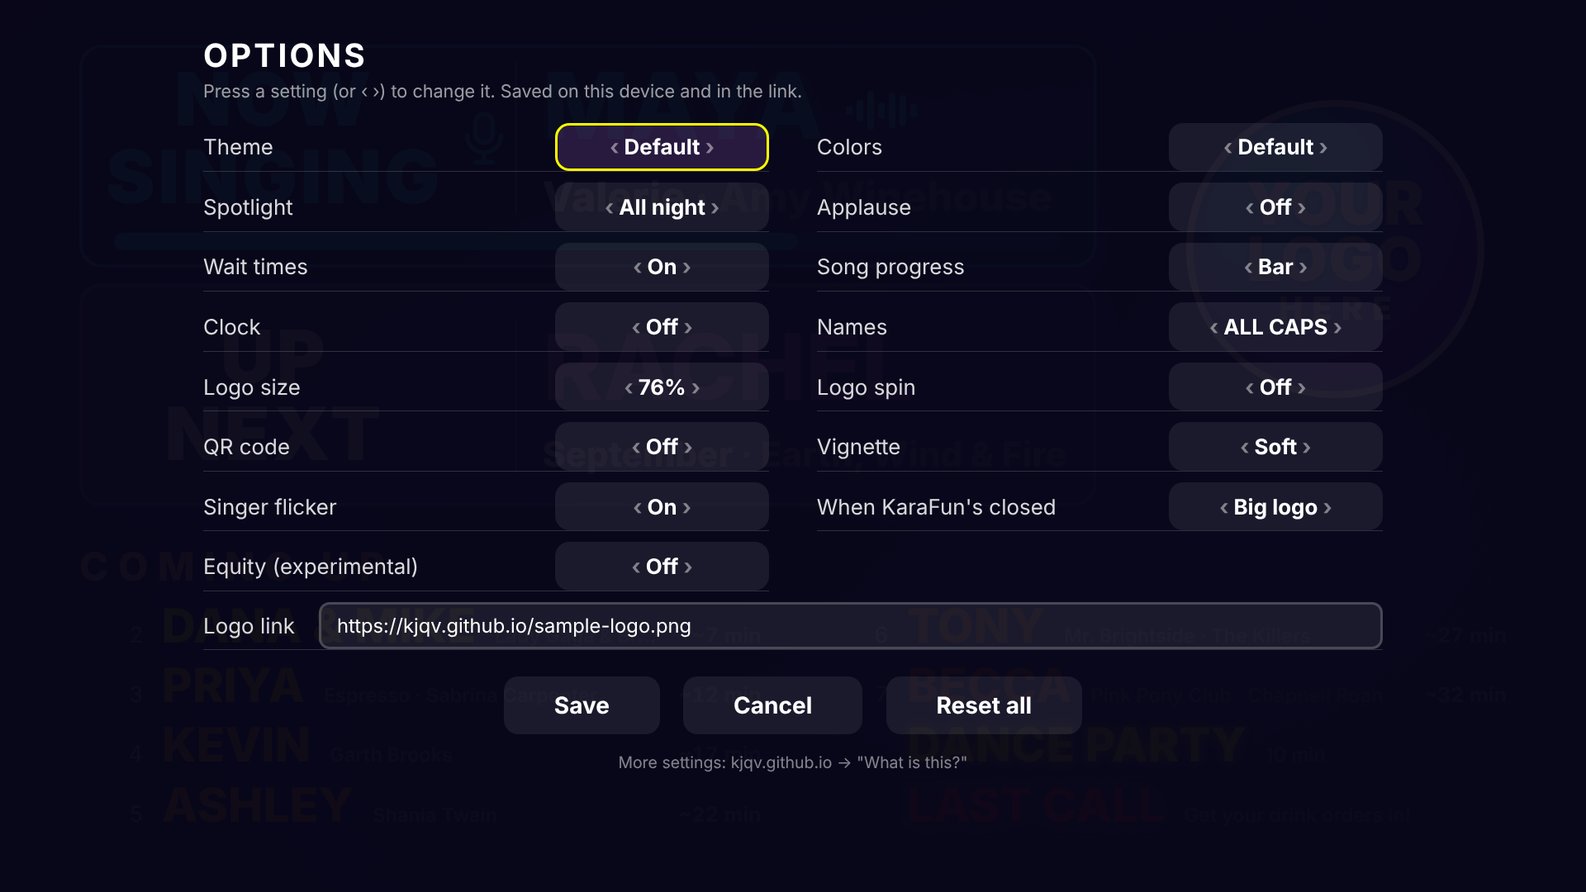
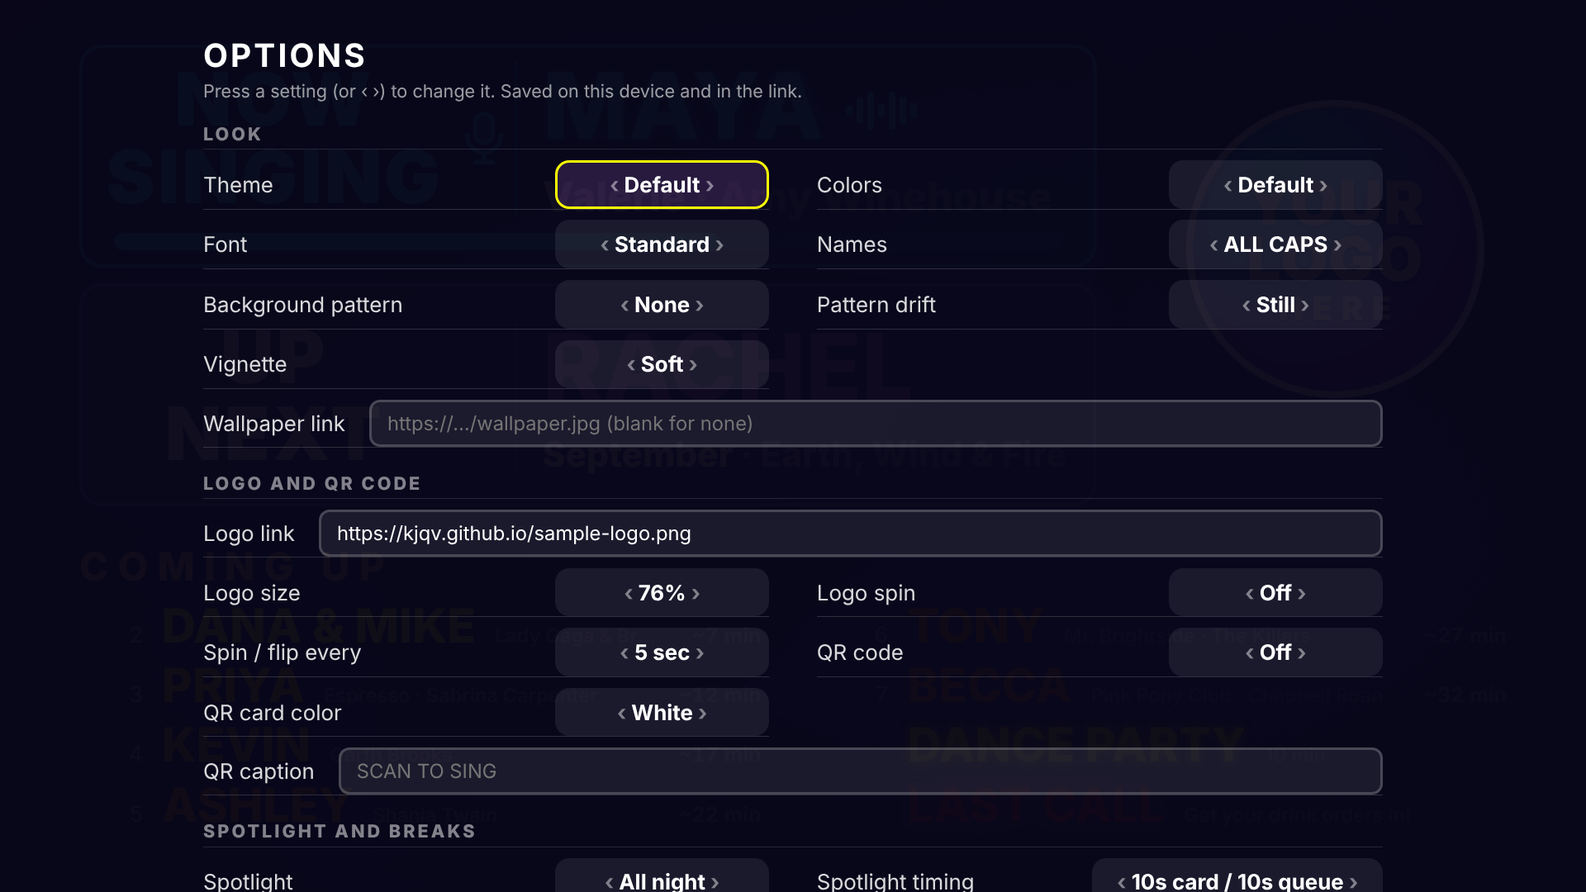
Options menu: every setting in sections, plus spotlight timing; README says plainly that Equity mode reorders the queue; fix white background with vignette off
Claude-Session: https://claude.ai/code/session_01T6WqMGWzKwPbF2TtYgSiwr

diff --git a/index.html b/index.html
@@ -33,7 +33,7 @@
   html.silkfix body { min-height: calc(100vh + 300px); }
   html.silkfix .safe { position: fixed; } /* content stays put while the page scrolls */
   /* Default background: deep purple fading to blue, with a soft vignette (both changeable in the link). */
-  html, body { margin: 0; height: 100%; background: #1a0b4d radial-gradient(ellipse at center, rgba(0,0,0,0) 40%, rgba(0,0,0,.3) 100%), #1a0b4d linear-gradient(135deg, #1a0b4d 0%, #0a3a8c 100%); color: var(--fg);
+  html, body { margin: 0; height: 100%; background: radial-gradient(ellipse at center, rgba(0,0,0,0) 40%, rgba(0,0,0,.3) 100%), linear-gradient(135deg, #1a0b4d 0%, #0a3a8c 100%) #1a0b4d; color: var(--fg);
     font-family: system-ui, -apple-system, "Segoe UI", Roboto, Helvetica, Arial, sans-serif;
     overflow: hidden; }
   /* 5% safe margins: some TVs crop the edges */
@@ -426,6 +426,9 @@
   #opts .row button.ch { min-width: 24vh; font-size: 2.4vh; padding: 1vh 1.4vw; font-weight: 700; }
   #opts .row button.ch::before { content: "\2039  "; opacity: .45; } #opts .row button.ch::after { content: "  \203A"; opacity: .45; }
   #opts .row.wide { grid-column: 1 / -1; }
+  #opts .head { grid-column: 1 / -1; font-size: 2vh; font-weight: 800; letter-spacing: .14em; text-transform: uppercase;
+    color: rgba(255,255,255,.5); margin-top: 1.6vh; padding-bottom: .5vh; border-bottom: 1px solid rgba(255,255,255,.12); }
+  #opts .head:first-child { margin-top: 0; }
   #opts input { flex: 1; min-width: 0; font: inherit; font-size: 2.2vh; padding: 1vh 1vw; border-radius: 1.2vh;
     border: .3vh solid rgba(255,255,255,.2); background: rgba(255,255,255,.08); color: #fff; }
   #opts input:focus { outline: none; border-color: var(--yellow); }
@@ -596,7 +599,7 @@ var qrcode=function(){var t=function(t,r){var e=t,n=g[r],o=null,i=0,a=null,u=[],
   var CFG_KEY = "kqv.cfg";
   var cfg = {};
   try { cfg = JSON.parse(load(CFG_KEY) || "{}") || {}; } catch (e) { cfg = {}; }
-  var OPTS = ["logo", "bg1", "bg2", "up1", "up2", "now", "next", "icons", "pulse", "songs", "title", "artist", "count", "time", "font", "idle", "clock", "eta", "gap", "long", "dance", "numbers", "line", "theme", "bgimg", "pattern", "mic", "mics", "excited", "dots", "equity", "upin", "align", "vu", "applause", "qr", "qrtext", "qrbg", "drip", "scroll", "nextflicker", "flourish", "qrswap", "caps", "spotlight", "spin", "logosize", "vignette", "flicker", "away"];
+  var OPTS = ["logo", "bg1", "bg2", "up1", "up2", "now", "next", "icons", "pulse", "songs", "title", "artist", "count", "time", "font", "idle", "clock", "eta", "gap", "long", "dance", "numbers", "line", "theme", "bgimg", "pattern", "mic", "mics", "excited", "dots", "equity", "upin", "align", "vu", "applause", "qr", "qrtext", "qrbg", "drip", "scroll", "nextflicker", "flourish", "qrswap", "caps", "spotlight", "spin", "logosize", "vignette", "flicker", "away", "spottime"];
   // A link with any look options replaces the saved look; a bare link (just code=) keeps it.
   // The preview never uses what this device saved.
   if (DEMO || OPTS.some(function (k) { return params.has(k); })) cfg = {};
@@ -715,7 +718,7 @@ var qrcode=function(){var t=function(t,r){var e=t,n=g[r],o=null,i=0,a=null,u=[],
     var vg = String(cfg.vignette || "").trim(), vn = parseFloat(vg);
     if (!/^(0|off|no|false|none)$/i.test(vg))   // on by default at 30; vignette=off removes it
       layers.unshift("radial-gradient(ellipse at center, rgba(0,0,0,0) 40%, rgba(0,0,0," + (vn > 0 ? Math.min(100, vn) / 100 : /^(on|yes|true)$/i.test(vg) ? 0.6 : 0.3) + ") 100%)");
-    if (b1 || b2 || layers.length) {
+    {   // always set it, so vignette=off still gets the default fade
       var c1 = b1 || "1a0b4d", c2 = b2 || (b1 ? b1 : "0a3a8c");
       layers.push("linear-gradient(135deg, #" + c1 + " 0%, #" + c2 + " 100%)");
       var bg = layers.join(", ");
@@ -731,7 +734,7 @@ var qrcode=function(){var t=function(t,r){var e=t,n=g[r],o=null,i=0,a=null,u=[],
     document.body.classList.toggle("rgbfont", /^(pixel|space)$/i.test(String(cfg.font || "")));
     var fontName = String(cfg.font || "").trim();
     fontName = FONTS[fontName.toLowerCase()] || fontName.replace(/[^A-Za-z0-9 ]/g, "");
-    if (fontName && fontName.toLowerCase() !== "default") {
+    if (fontName && !/^(default|off|standard)$/i.test(fontName)) {
       var link = document.createElement("link");
       link.rel = "stylesheet";
       link.href = "https://fonts.googleapis.com/css2?family=" + encodeURIComponent(fontName).replace(/%20/g, "+") +
@@ -945,6 +948,9 @@ var qrcode=function(){var t=function(t,r){var e=t,n=g[r],o=null,i=0,a=null,u=[],
   var spotMode = String(cfg.spotlight || "loop").toLowerCase();
   if (/^(on|yes|true|1)$/.test(spotMode)) spotMode = "on"; else if (spotMode !== "loop") spotMode = "";
   var spotSince = 0, spotShown = false;
+  var spotParts = String(cfg.spottime || "").split(/[^0-9.]+/), spotCard = parseFloat(spotParts[0]), spotQueue = parseFloat(spotParts[1]);
+  if (isNaN(spotCard)) spotCard = 10; if (isNaN(spotQueue)) spotQueue = 10;
+  spotCard = Math.max(3, Math.min(60, spotCard)); spotQueue = Math.max(3, Math.min(120, spotQueue));
   var heroOpen = false;
   function spotTick() {
     if (!spotMode) return;
@@ -960,10 +966,11 @@ var qrcode=function(){var t=function(t,r){var e=t,n=g[r],o=null,i=0,a=null,u=[],
       !(onBreak && !afterApplause) && (spotMode === "loop" || between);
     if (!ok) { spotSince = 0; setSpot(false); return; }
     if (!spotSince) spotSince = Date.now();
-    var t = (Date.now() - spotSince) / 1000, cycle = 20;   // 10 seconds of the card, 10 of the normal screen
+    // spottime=CARD-QUEUE in seconds (default 10-10): how long the card shows, then the normal screen
+    var t = (Date.now() - spotSince) / 1000, cycle = spotCard + spotQueue;
     // All-night mode starts on the normal screen, so a fresh page shows the whole queue first;
     // between-songs mode still opens on the card.
-    var want = spotMode === "loop" ? (t % cycle) >= 10 : (t % cycle) < 10;
+    var want = spotMode === "loop" ? (t % cycle) >= spotQueue : (t % cycle) < spotCard;
     if (want && !spotShown) {
       $("spotLabel").textContent = nowCard ? $("nowLabelText").innerHTML.replace(/<br\s*\/?>/gi, " ").replace(/<[^>]*>/g, "").trim()
         : ($("nextLabelText").innerHTML.replace(/<br\s*\/?>/gi, " ").replace(/<[^>]*>/g, "") || "UP NEXT").replace(/\u2026$/, "").trim();
@@ -2011,22 +2018,56 @@ var qrcode=function(){var t=function(t,r){var e=t,n=g[r],o=null,i=0,a=null,u=[],
   ];
   var COLOR_KEYS = ["bg1", "bg2", "now", "next", "up1", "up2"];
   var OPT_ROWS = [
+    ["#", "Look"],
     ["theme", "Theme", [["", "Default"], ["goth", "Goth"], ["turkey", "Turkey"], ["holiday", "Holiday"]]],
     ["colors", "Colors", null],
-    ["spotlight", "Spotlight", [["", "All night"], ["on", "Between songs"], ["off", "Off"]]],
-    ["applause", "Applause", [["", "Off"], ["on", "On"]]],
-    ["eta", "Wait times", [["", "On"], ["off", "Off"]]],
-    ["time", "Song progress", [["", "Bar"], ["both", "Bar + countdown"], ["off", "Off"]]],
-    ["clock", "Clock", [["", "On"], ["off", "Off"]]],
+    ["font", "Font", [["", "Standard"], ["rounded", "Rounded"], ["retro", "Retro"], ["marker", "Marker"], ["pixel", "Arcade pixel"]]],
     ["caps", "Names", [["", "ALL CAPS"], ["off", "As typed"]]],
-    ["logosize", "Logo size", [["", "76%"], ["60", "60%"], ["70", "70%"], ["90", "90%"], ["100", "100%"]]],
-    ["spin", "Logo spin", [["", "Off"], ["on", "Every 5 sec"]]],
-    ["qr", "QR code", [["", "Off"], ["on", "Instead of logo"], ["split", "Flips with logo"], ["both", "Both"]]],
+    ["pattern", "Background pattern", [["", "None"], ["notes", "Music notes"], ["mics", "Mics"], ["houndstooth", "Houndstooth"], ["maple", "Maple leaves"], ["harvest", "Harvest"], ["trees", "Trees"], ["crosses", "Crosses"], ["tinycrosses", "Tiny crosses"], ["petrine", "Upside-down crosses"]]],
+    ["scroll", "Pattern drift", [["", "Still"], ["on", "Drift up"], ["down", "Drift down"]]],
     ["vignette", "Vignette", [["", "Soft"], ["60", "Strong"], ["off", "Off"]]],
-    ["flicker", "Singer flicker", [["", "On"], ["off", "Off"]]],
+    ["bgimg", "Wallpaper link", "input", "https://…/wallpaper.jpg (blank for none)"],
+    ["#", "Logo and QR code"],
+    ["logo", "Logo link", "input", "https://…/your-logo.png (blank for none)"],
+    ["logosize", "Logo size", [["", "76%"], ["60", "60%"], ["70", "70%"], ["90", "90%"], ["100", "100%"]]],
+    ["spin", "Logo spin", [["", "Off"], ["on", "On"]]],
+    ["qrswap", "Spin / flip every", [["", "5 sec"], ["10", "10 sec"], ["20", "20 sec"], ["30", "30 sec"]]],
+    ["qr", "QR code", [["", "Off"], ["on", "Instead of logo"], ["split", "Flips with logo"], ["both", "Both"]]],
+    ["qrbg", "QR card color", [["", "White"], ["fff4d6", "Cream"], ["d6f3ff", "Light blue"], ["ffd6e8", "Light pink"], ["e0ffd6", "Light green"]]],
+    ["qrtext", "QR caption", "input", "SCAN TO SING"],
+    ["#", "Spotlight and breaks"],
+    ["spotlight", "Spotlight", [["", "All night"], ["on", "Between songs"], ["off", "Off"]]],
+    ["spottime", "Spotlight timing", [["", "10s card / 10s queue"], ["5-15", "5s card / 15s queue"], ["8-20", "8s card / 20s queue"], ["10-30", "10s card / 30s queue"], ["15-15", "15s card / 15s queue"], ["5-30", "5s card / 30s queue"]]],
+    ["applause", "Applause", [["", "Off"], ["on", "On"]]],
     ["away", "When KaraFun's closed", [["", "Big logo"], ["music", "Music break"], ["dance", "Dance party"], ["off", "Keep the queue"]]],
+    ["dance", "Dance party color", [["", "Rainbow"], ["ff2ad4", "Pink"], ["00e5ff", "Cyan"], ["ffd23f", "Gold"], ["39ff88", "Green"]]],
     ["equity", "Equity (experimental)", [["", "Off"], ["on", "On (3 between)"], ["5", "On (5 between)"], ["scale", "Scale with crowd"]]],
-    ["logo", "Logo link", "input"]
+    ["#", "Now Singing"],
+    ["time", "Song progress", [["", "Bar"], ["both", "Bar + countdown"], ["text", "Countdown only"], ["off", "Off"]]],
+    ["flicker", "Singer flicker", [["", "On"], ["off", "Off"]]],
+    ["pulse", "Box pulse", [["", "On"], ["off", "Off"]]],
+    ["icons", "Mic and sound bars", [["", "On"], ["off", "Off"]]],
+    ["vu", "Sound bars", [["", "By the name"], ["swap", "By the label"], ["off", "Off"]]],
+    ["mic", "Mic", [["", "Steady"], ["flicker", "Candle flicker"]]],
+    ["mics", "Mics by the label", [["", "One"], ["2", "Two"]]],
+    ["excited", "Label", [["", "NOW SINGING"], ["on", "NOW SINGING!"]]],
+    ["#", "Up Next"],
+    ["upin", "Label", [["", "UP NEXT"], ["on", "UP IN 3 MIN"]]],
+    ["dots", "Trailing dots", [["", "Off"], ["on", "UP NEXT…"]]],
+    ["nextflicker", "Neon flicker", [["", "Off"], ["on", "On"]]],
+    ["align", "Label position", [["", "Centered"], ["left", "Left"], ["right", "Right"]]],
+    ["#", "Coming Up"],
+    ["count", "How many", [["", "8"], ["3", "3"], ["4", "4"], ["5", "5"], ["6", "6"], ["10", "10"], ["12", "12"], ["0", "Hide Coming Up"]]],
+    ["eta", "Wait times", [["", "On"], ["on", "Also by Up Next"], ["time", "Clock times"], ["off", "Off"]]],
+    ["gap", "Time between singers", [["", "60 sec"], ["30", "30 sec"], ["45", "45 sec"], ["90", "90 sec"], ["120", "2 min"]]],
+    ["title", "Song titles", [["", "On"], ["off", "Off"]]],
+    ["artist", "Artists", [["", "On"], ["off", "Off"]]],
+    ["long", "Long song lines", [["", "Take turns"], ["scroll", "Slide sideways"]]],
+    ["numbers", "Place numbers", [["", "On"], ["off", "Off"]]],
+    ["clock", "Clock", [["", "On"], ["12", "12-hour"], ["24", "24-hour"], ["off", "Off"]]],
+    ["line", "Line under COMING UP", [["", "Off"], ["on", "On"]]],
+    ["flourish", "Glowing COMING UP", [["", "Off"], ["on", "On"]]],
+    ["drip", "Blood drips (goth)", [["", "Off"], ["on", "On"]]]
   ];
   var ed = {};
   function themeKey(v) { var tn = String(v || "").toLowerCase().replace(/[^a-z]/g, ""); return tn === "gothclub" ? "goth" : /^(xmas|christmas|holidays)$/.test(tn) ? "holiday" : /^(thanksgiving|fall|autumn)$/.test(tn) ? "turkey" : tn; }
@@ -2041,7 +2082,11 @@ var qrcode=function(){var t=function(t,r){var e=t,n=g[r],o=null,i=0,a=null,u=[],
     }
     list = row[2].slice();
     var t = THEMES[themeKey(ed.theme)];
-    if (t && t[key] !== undefined && key !== "theme") list[0] = ["", "Theme's choice"];
+    if (t && t[key] !== undefined && key !== "theme") {
+      // the theme picks this one; keep a way to turn it back to the plain default
+      if (!list.some(function (c) { return c[0] === "off"; }) && !/^(off|0)$/i.test(String(t[key]))) list.push(["off", list[0][1]]);
+      list[0] = ["", "Theme's choice"];
+    }
     var v = key === "theme" ? themeKey(ed.theme) : String(ed[key] || "");
     if (v && !list.some(function (c) { return c[0].toLowerCase() === v.toLowerCase(); })) list.unshift([v, v + " (custom)"]);
     return list;
@@ -2057,13 +2102,20 @@ var qrcode=function(){var t=function(t,r){var e=t,n=g[r],o=null,i=0,a=null,u=[],
       COLOR_KEYS.forEach(function (k, i) { if (parts[i]) ed[k] = parts[i]; else delete ed[k]; });
     } else if (v) ed[key] = v; else delete ed[key];
   }
+  function readInputs() {
+    Array.prototype.forEach.call($("optRows").querySelectorAll("input[data-k]"), function (el) {
+      var u = el.value.trim(), k = el.getAttribute("data-k"); if (u) ed[k] = u; else delete ed[k];
+    });
+  }
   function drawOpts() {
+    readInputs();
     var focusKey = document.activeElement && document.activeElement.getAttribute && document.activeElement.getAttribute("data-k");
     var html = "";
     OPT_ROWS.forEach(function (row) {
+      if (row[0] === "#") { html += '<div class="head">' + esc(row[1]) + '</div>'; return; }
       if (row[2] === "input") {
-        html += '<label class="row wide"><span>' + row[1] + '</span><input id="optLogo" data-k="logo" type="url" placeholder="https://…/your-logo.png (blank for none)" value="' +
-          esc(ed.logo || "") + '"></label>';
+        html += '<label class="row wide"><span>' + row[1] + '</span><input data-k="' + row[0] + '" type="' + (row[0] === "qrtext" ? "text" : "url") +
+          '" placeholder="' + esc(row[3] || "") + '" value="' + esc(ed[row[0]] || "") + '"></label>';
         return;
       }
       var list = choicesFor(row), v = curVal(row[0]).toLowerCase(), label = list[0][1];
@@ -2082,6 +2134,7 @@ var qrcode=function(){var t=function(t,r){var e=t,n=g[r],o=null,i=0,a=null,u=[],
   }
   function openOpts() {
     ed = JSON.parse(JSON.stringify(rawCfg));
+    $("optRows").innerHTML = "";
     closeMenu();
     $("opts").classList.remove("hidden");
     document.body.classList.remove("nocursor");
@@ -2090,7 +2143,7 @@ var qrcode=function(){var t=function(t,r){var e=t,n=g[r],o=null,i=0,a=null,u=[],
   }
   function closeOpts() { $("opts").classList.add("hidden"); if (document.activeElement) document.activeElement.blur(); }
   function saveOpts() {
-    var lg = $("optLogo"); if (lg) { var u = lg.value.trim(); if (u) ed.logo = u; else delete ed.logo; }
+    readInputs();
     var q = new URLSearchParams(location.search);
     OPTS.forEach(function (k) { q.delete(k); });
     q.delete("v"); q.delete("reset");
@@ -2104,7 +2157,7 @@ var qrcode=function(){var t=function(t,r){var e=t,n=g[r],o=null,i=0,a=null,u=[],
   });
   $("optSave").addEventListener("click", saveOpts);
   $("optCancel").addEventListener("click", closeOpts);
-  $("optReset").addEventListener("click", function () { ed = {}; drawOpts(); });
+  $("optReset").addEventListener("click", function () { $("optRows").innerHTML = ""; ed = {}; drawOpts(); });
   $("btnOpts").addEventListener("click", openOpts);
   function optsKey(e) {
     var k = e.key, a = document.activeElement;

diff --git a/README.md b/README.md
@@ -36,7 +36,7 @@
 - **Spotlight mode** (on by default; `spotlight=off` to turn it off): the screen wipes over to a big full-screen card: **NOW SINGING** while a song plays, **UP NEXT** near the end and between songs, switching back and forth with the normal screen. [See it in goth](https://kjqv.github.io/goth).
 - **Scan-to-sing QR code** (`qr=on`) so guests can join your KaraFun session and add songs. Use it in place of your logo, flip between your logo and the QR code like a coin every 5 seconds (`qr=split`), or show both, small (`qr=both`).
 - **Applause mode** (`applause=on`): a big "MAKE SOME NOISE FOR (name)!!!" when each singer finishes.
-- **Equity mode** (`equity=on`, *experimental*): spaces out repeat singers in KaraFun's queue so everyone gets a turn.
+- **[Equity mode](#equity-mode)** (`equity=on`, *experimental*, off by default): spaces out repeat singers so everyone gets a turn. This is the only feature that changes your actual KaraFun queue: it reorders songs.
 - **Planned breaks and announcements:** queue `BRB KJ 15`, `DANCE 10` or `LAST CALL` as a singer name and the screen shows a countdown, a DANCE PARTY or a flashing LAST CALL. Nothing to turn on.
 - **Idle screen** (`idle=5`): *paused for now while I rework it.* The setting is ignored, so the screen always shows the full queue.
 
@@ -58,7 +58,7 @@ The first time you open the page, it asks for the 6-digit **remote control code*
 - The code is saved only in that device's browser. It only appears on the screen if you turn on `qr=on`, which shows the same join QR code KaraFun gives your guests.
 - There's no account, no sign-up, no ads, no tracking, and no server of mine collecting anything. The whole app is one web page.
 - The page talks directly to KaraFun. The only other things it loads are your logo (from wherever you host it), a Google Font if you pick one, and its own page from GitHub to check for updates.
-- It only **reads** the queue and never changes it: it can't add, remove or reorder songs, and it can't touch your KaraFun account or billing. It shows up as **KJQV** in KaraFun's list of connected guests.
+- By default it only **reads** the queue and never changes it: it doesn't add, remove or reorder songs, and it can't touch your KaraFun account or billing. The one exception is [Equity mode](#equity-mode) (experimental, off unless you turn it on), which moves songs around in your queue to space out repeat singers. It never adds or removes songs. It shows up as **KJQV** in KaraFun's list of connected guests.
 - It's open source: everything is in one file, [index.html](index.html), that anyone can read.
 
 ## What you need
@@ -79,11 +79,11 @@ To open the small menu (**Full screen**, **Options**, **Change code**), tap or c
 
 ## Make it your own
 
-**The easy way: the Options menu.** On the code screen, press **Customize the look**. Or, once your queue is showing, tap the screen (or press an arrow on a TV remote) and choose **Options**. Pick a theme, colors and your logo, turn features on or off, and press **Save**. Your choices are remembered on that device. The menu only appears when you open it, so guests never see it.
+**The easy way: the Options menu.** On the code screen, press **Customize the look**. Or, once your queue is showing, tap the screen (or press an arrow on a TV remote) and choose **Options**. Pick a theme, colors, font, pattern and your logo, set the spotlight timing, turn features on or off, and press **Save**. Nearly every setting is in there. Your choices are remembered on that device. The menu only appears when you open it, so guests never see it.
 
 ![The Options menu](screenshots/options-panel.png)
 
-**More settings: add them to the page address.** Everything in the Options menu, plus a lot more (fonts, patterns, wait-time tweaks and so on), can also be set by adding it to the end of the web address, separated by `&`. Like this: `https://kjqv.github.io/?code=123456&theme=goth`. That's handy for bookmarking an exact setup, or for setting up several screens the same way. You never have to do this, but it's there if you want it.
+**Or add them to the page address.** Everything in the Options menu (plus a few extras, like any Google Font or your own QR link) can also be set by adding it to the end of the web address, separated by `&`. Like this: `https://kjqv.github.io/?code=123456&theme=goth`. That's handy for bookmarking an exact setup, or for setting up several screens the same way. You never have to do this, but it's there if you want it.
 
 ![Settings you can add to the address](screenshots/what-you-can-adjust.png)
 
@@ -98,6 +98,7 @@ Anything you don't set uses the defaults: no logo, a deep purple-to-blue backgro
 |---|---|---|
 | `code` | Your KaraFun remote control code | `code=123456` |
 | `logo` | A direct link to your logo image. A transparent PNG looks best | `logo=https://i.imgur.com/abc123.png` |
+| `spottime` | Spotlight timing: seconds of the card, then seconds of the normal screen (default `10-10`) | `spottime=8-20` |
 | `spin` | `on` makes your logo spin like a coin every 5 seconds (`qrswap=10` for every 10) | `spin=on` |
 | `logosize` | Logo size in percent, 40 to 100 (default 76, which leaves room between it and the boxes) | `logosize=100` |
 | `vignette` | How much the edges of the background darken, 1 to 100 (default 30; `on` is 60, `off` removes it) | `vignette=off` |
@@ -152,7 +153,7 @@ Tap one to read more. Spotlight is on by default and planned breaks work any tim
 Keeps the focus on who's singing and who's up next. **On by default** (as `loop`); add `spotlight=off` to turn it off.
 
 - `spotlight=on`: only between songs. When a song ends (after the applause, if that's on), the screen wipes over to a full-screen **UP NEXT** card with the next singer's name, big and glowing. After 10 seconds it wipes back to the normal screen, then back to the card 10 seconds later, back and forth until the next song starts.
-- `spotlight=loop` (the default): the card all night, during songs too: 10 seconds of the card, then 10 seconds of the normal screen. While a song has more than 30 seconds left, the card shows **NOW SINGING** and the current singer (in the Now Singing color); in the last 30 seconds and between songs it switches to **UP NEXT** (with `upin=on` it says UP IN 3 MIN).
+- `spotlight=loop` (the default): the card all night, during songs too: 10 seconds of the card, then 10 seconds of the normal screen (change it with **Spotlight timing** in Options, or `spottime=8-20` for 8 seconds of card and 20 of the queue). While a song has more than 30 seconds left, the card shows **NOW SINGING** and the current singer (in the Now Singing color); in the last 30 seconds and between songs it switches to **UP NEXT** (with `upin=on` it says UP IN 3 MIN).
 - It skips BRB, DANCE and LAST CALL breaks.
 - See everything together in goth: **https://kjqv.github.io/goth**
 
@@ -173,10 +174,11 @@ Off by default. Add `applause=on` and when a singer finishes, the screen shows a
 
 </details>
 
+<a id="equity-mode"></a>
 <details>
 <summary><b>Equity mode <i>(experimental)</i></b></summary>
 
-Off by default. Turn it on in the **Options** menu (Equity), or add `equity=on` to the link, and the screen spaces out repeat singers in KaraFun's queue, keeping at least 3 other singers between someone's songs. Set your own number with `equity=5`, or use `equity=scale` to have the spacing grow with the crowd: about a third of the people in line (5 singers → 1 between repeats, 15 singers → 5).
+Off by default. **Heads up: this is the one feature that changes your real KaraFun queue.** It moves songs around (it never adds or removes any), and the new order shows up in KaraFun and on everyone's phones. Turn it on in the **Options** menu (Equity), or add `equity=on` to the link, and the screen spaces out repeat singers in KaraFun's queue, keeping at least 3 other singers between someone's songs. Set your own number with `equity=5`, or use `equity=scale` to have the spacing grow with the crowd: about a third of the people in line (5 singers → 1 between repeats, 15 singers → 5).
 
 - Same name = same singer. Give two Susans different names ("Susan B", "Susan K").
 - It never moves the song that's on or the one in Up Next.
@@ -305,7 +307,7 @@ Any PNG or JPG hosted on the web works: point `logo=` (or `bgimg=`) at the image
 <details>
 <summary><b>How it works</b></summary>
 
-KaraFun's public remote page (`karafun.com/<code>/`) embeds a short-lived WebSocket address for the session. This page fetches that (KaraFun allows cross-origin reads), loads KaraFun's own `WebKCS` client from their CDN, and listens for `remote.QueueEvent` and `remote.StatusEvent` as a read-only listener. It names itself **KJQV** so it shows up clearly in KaraFun's list of connected guests. It reconnects on its own if Wi-Fi drops or KaraFun restarts.
+KaraFun's public remote page (`karafun.com/<code>/`) embeds a short-lived WebSocket address for the session. This page fetches that (KaraFun allows cross-origin reads), loads KaraFun's own `WebKCS` client from their CDN, and listens for `remote.QueueEvent` and `remote.StatusEvent` as a listener. Normally it only listens; the only thing it ever sends is a move-in-queue request (`remote.MoveInQueueRequest`), and only when [Equity mode](#equity-mode) is turned on. It names itself **KJQV** so it shows up clearly in KaraFun's list of connected guests. It reconnects on its own if Wi-Fi drops or KaraFun restarts.
 
 This relies on KaraFun's undocumented remote protocol, so a KaraFun update could break it.
 
